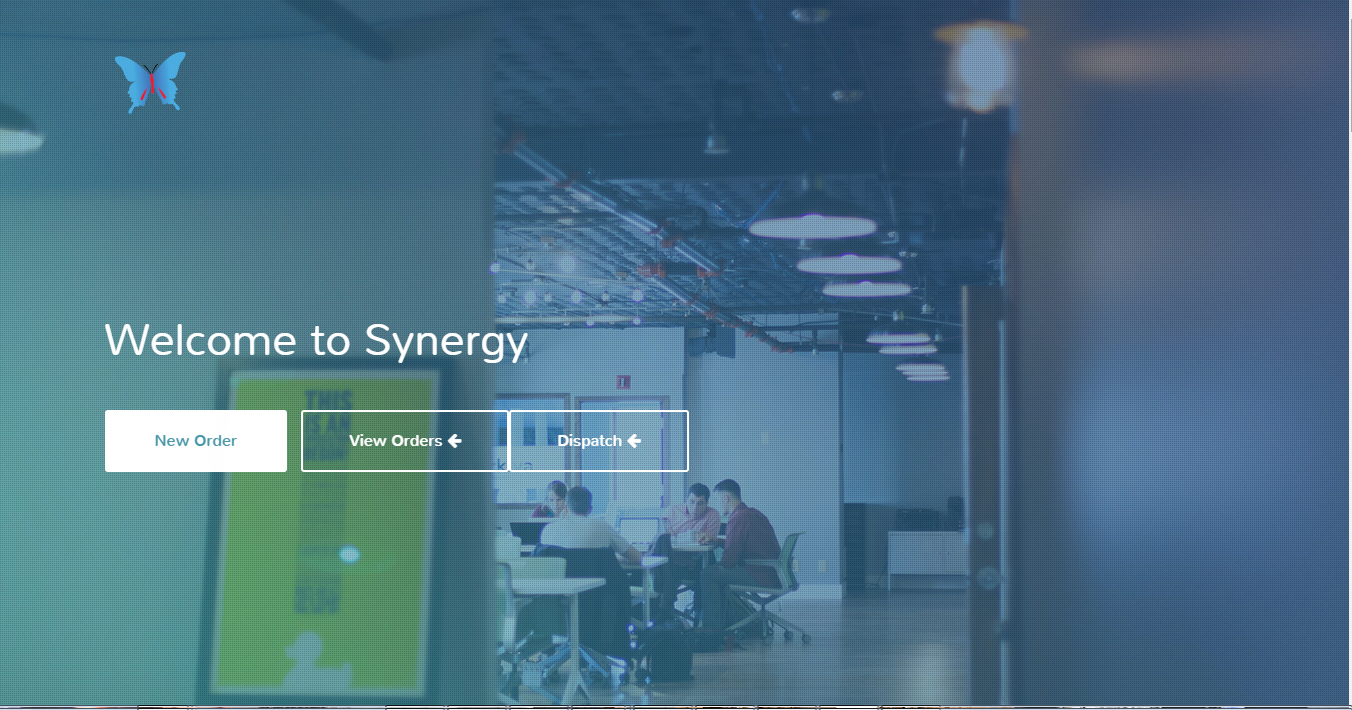
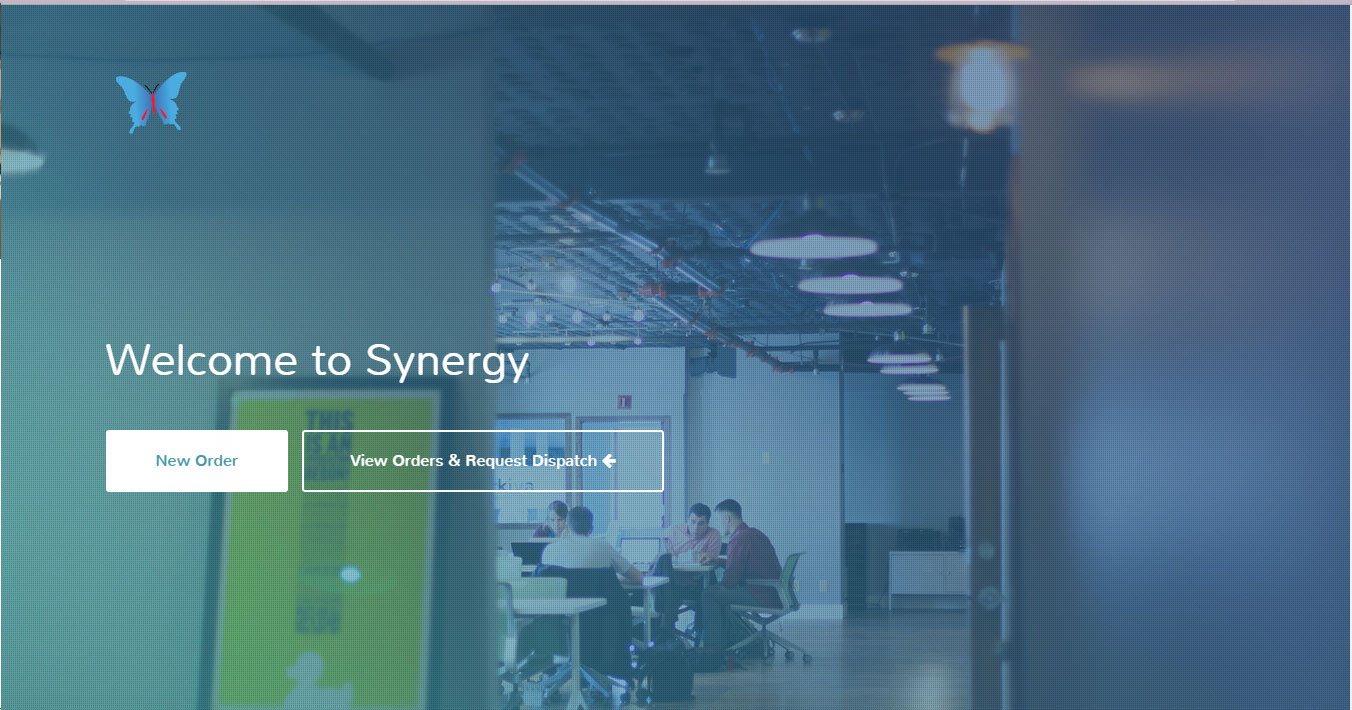
Attempting to modify orders lets hope I don't break it again

diff --git a/admin.php b/admin.php
@@ -57,7 +57,7 @@
 				<div class="container">
 					<div class="row nav-wrapper">
 						<div class="col-md-6 col-sm-6 col-xs-6 text-left">
-							<a href="#"><img src="img/logo-white.png" alt="NADIA Logo"></a>
+							<a href="#"><img src="img/butterfly.png" alt="NADIA Logo"></a>
 						</div>
 						<div class="col-md-6 col-sm-6 col-xs-6 text-right navicon">
 							<p></p><a id="trigger-overlay" class="nav_slide_button nav-toggle" href="#"><span></span></a>
@@ -66,49 +66,28 @@
 					<div class="row hero-content">
 						<div class="col-md-12">
 							<h1 class="animated fadeInDown">Welcome to Synergy</h1>
-							<a href="#neworders" class="use-btn animated fadeInUp">Manage</a> <a href="#dipatch" class="learn-btn animated fadeInUp">View Reports<i class="fa fa-arrow-left"></i></a>
+							<a href="#manage" class="use-btn animated fadeInUp">Manage</a> <a href="#dipatch" class="learn-btn animated fadeInUp">View Reports<i class="fa fa-arrow-left"></i></a>
 						</div>
 					</div>
 				</div>
 			</section>
 		</header>
-		<section class="video" id="signin">
+		<section class="video" id="manage">
 			
 			<div class="container">
-				<div class="row" id="neworders">
+				<div class="row" id="manage">
 					<?php
 				$conn = mysql_connect("localhost","root","");
 				mysql_select_db("whouse",$conn);
 				$result = mysql_query("SELECT * FROM neworder");
 				$row= mysql_fetch_array($result);
 			?>
-										<h1>New Orders are as follows</h1>
-										<table width="500" cellpadding="10"><tr><th>Order ID</th><th>Client Id</th><th>Order_Date</th><th>dispatch</tr>
-<?php
-$i=0;
-while($row = mysql_fetch_array($result)) {
-if($i%2==0)
-$classname="evenRow";
-else
-$classname="oddRow";
-?>
-				
-							<tr>
-								<td><?php echo $row["Order_ID"]; ?></td>
-								<td><?php echo $row["client_id"]; ?></td>
-								<td><?php echo $row["orderdate"]; ?></td>
-								<td><a href="checkin_order.php?Order_ID=<?php echo $row["Order_ID"];?>">Check In</a></td>
-								
-							</tr>
-				
-<?php
-$i++;
-}
-?>
-	</table>
+				<h1>New Orders are as follows</h1>
+				<a href="editstorage" />Edit Storage </a>
+												
 			</div>
 			</div>
-		</section id="signin">
+		</section>
 		<section class="features-intro" id="">
 			<div class="container-fluid">
 				<div class="row">
@@ -413,8 +392,8 @@ $i++;
 			<div class="container">
 				<div class="row">
 					<div class="col-md-12 text-center wp4">
-						<h1>Seen Enough?</h1>
-						<a href="#" class="download-btn">Download! <i class="fa fa-download"></i></a>
+						<!--h1>Seen Enough?</h1>
+						<a href="#" class="download-btn">Download! <i class="fa fa-download"></i></a-->
 					</div>
 				</div>
 			</div>

diff --git a/hazard_order.php b/hazard_order.php
@@ -151,7 +151,7 @@ $message = "New User Added Successfully";
 			<?php
 				$conn = mysql_connect("localhost","root","");
 				mysql_select_db("whouse",$conn);
-				$result = mysql_query("SELECT * FROM storage where storage_Id='2'");
+				$result = mysql_query("SELECT * FROM storage where storage_Id='3'");
 				$row= mysql_fetch_array($result);
 			?>
 				  <h1>Request for Shelf Storage</h1>
@@ -165,16 +165,16 @@ $message = "New User Added Successfully";
 						<!--tr><td><label>Date From </label></td><td><input type="text" name="order_from" class="date .start" id="basic"/></td></tr>
 						<tr><td><label>Date To</label></td><td><input type="text" name="order_to" class="date .end" id="basic"/></td></tr-->
 												
-						<tr><td><label>Cost of Cold Storage :</label></td><td>R <?php echo $row["price"]; ?></td></tr>
+						<tr><td><label>Cost of Hazardous Storage :</label></td><td>R <?php echo $row["price"]; ?></td></tr>
 						</table>
-						<tr><td><label>Cold Storage Price = per unit per day <br/>
+						<tr><td><label>Hazardous Storage Price = per unit per day <br/>
 						<input type="hidden" name="storage_cost" id="storage_cost" value="<?php echo $row["price"]; ?>"><br/>
 						<input type="hidden" name="storage_id" id="storage_id" value="1"><br/>
 						<input type="hidden" name="client_id" id="client_id" value="2">
 						<input type="submit" name="submit" value="Submit" class="btnSubmit">
 						
 					</form>
-					<a href="neworder.php">Return To Home Page</a>				
+									
 				<!--/dd>
 				<dt>Cold House</dt>
 				<dd>

diff --git a/checkin_order.php b/checkin_order.php
@@ -2,9 +2,11 @@
 $conn = mysql_connect("localhost","root","");
 mysql_select_db("whouse",$conn);
 if(count($_POST)>0) {
+
 mysql_query("INSERT into stored_order(Order_ID, Order_Name, Order_date, Order_From, Order_To, Order_Qty, storage_id, client_id, emp_id, check_qty) VALUES (Order_ID='" . $_POST["Order_ID"] . "', Order_Name='" . $_POST["Order_Name"] . "', Order_date='" . $_POST["Order_date"] . "', Order_From='" . $_POST["Order_From"] . "', Order_To='" . $_POST["Order_To"] . "', Order_Qty='" . $_POST["Order_Qty"] . "', storage_id='" . $_POST["storage_id"] . "', client_id='" . $_POST["client_id"] . "', emp_id='" . $_POST["emp_id"] . "', check_qty='" . $_POST["check_qty"] . "')");
-$message = "Record Modified Successfully";
 mysql_query("DELETE from neworder_checkin WHERE Order_ID='" . $_POST["Order_ID"] . "'");
+$message = "Record Modified Successfully";
+
 }
 $result = mysql_query("SELECT * FROM order_details WHERE Order_ID='" . $_GET["Order_ID"] . "'");
 $row = mysql_fetch_array($result);

diff --git a/shelf_order.php b/shelf_order.php
@@ -174,6 +174,7 @@ $message = "New User Added Successfully";
 						<input type="submit" name="submit" value="Submit" class="btnSubmit">
 						
 					</form>
+					<a href="neworder.php">Return To Home Page</a>
 									
 				<!--/dd>
 				<dt>Cold House</dt>
